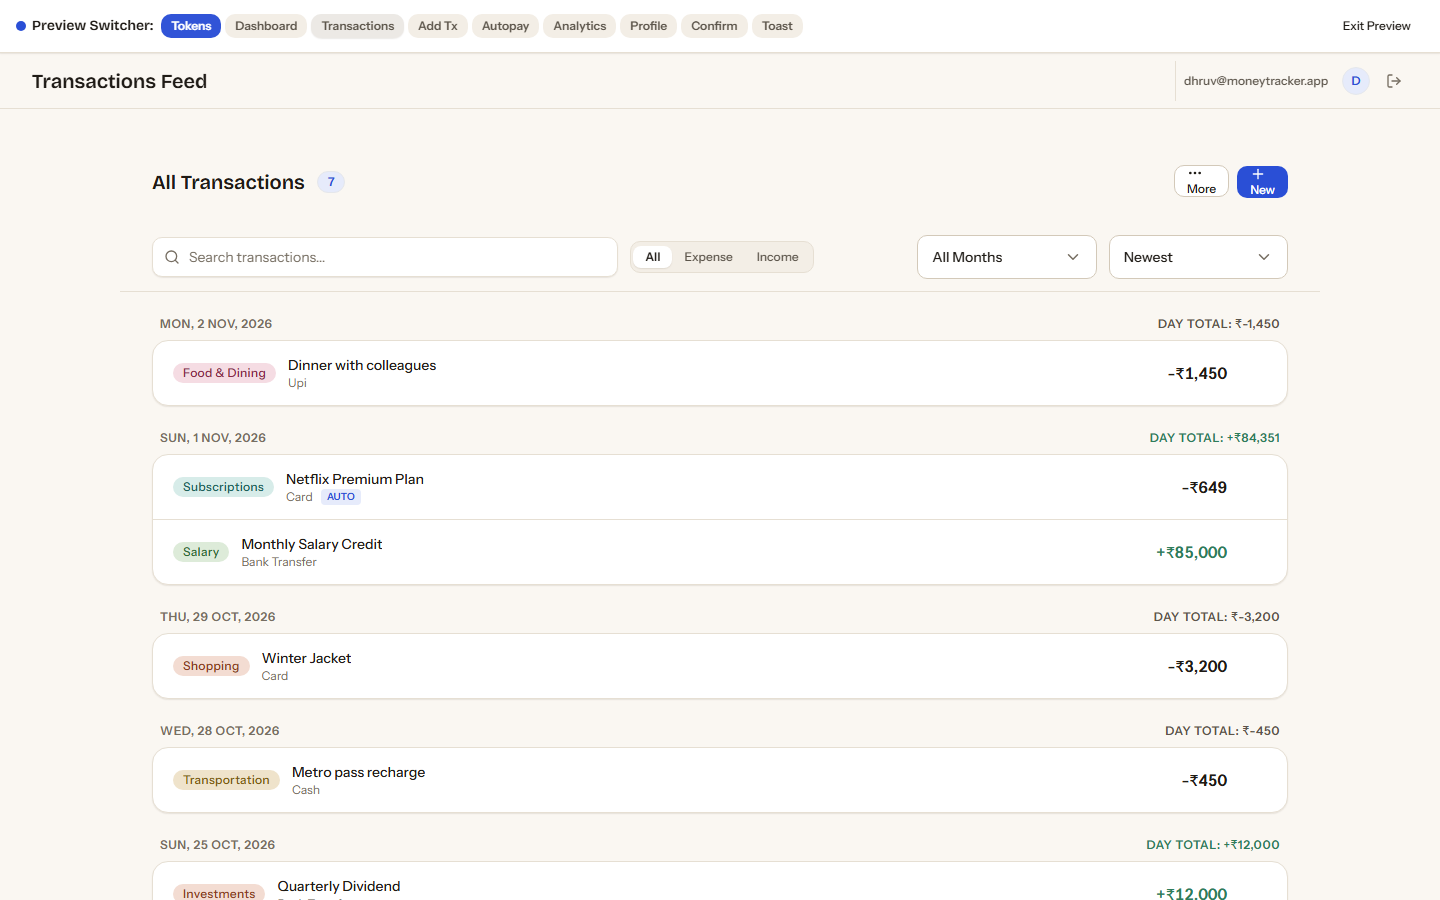
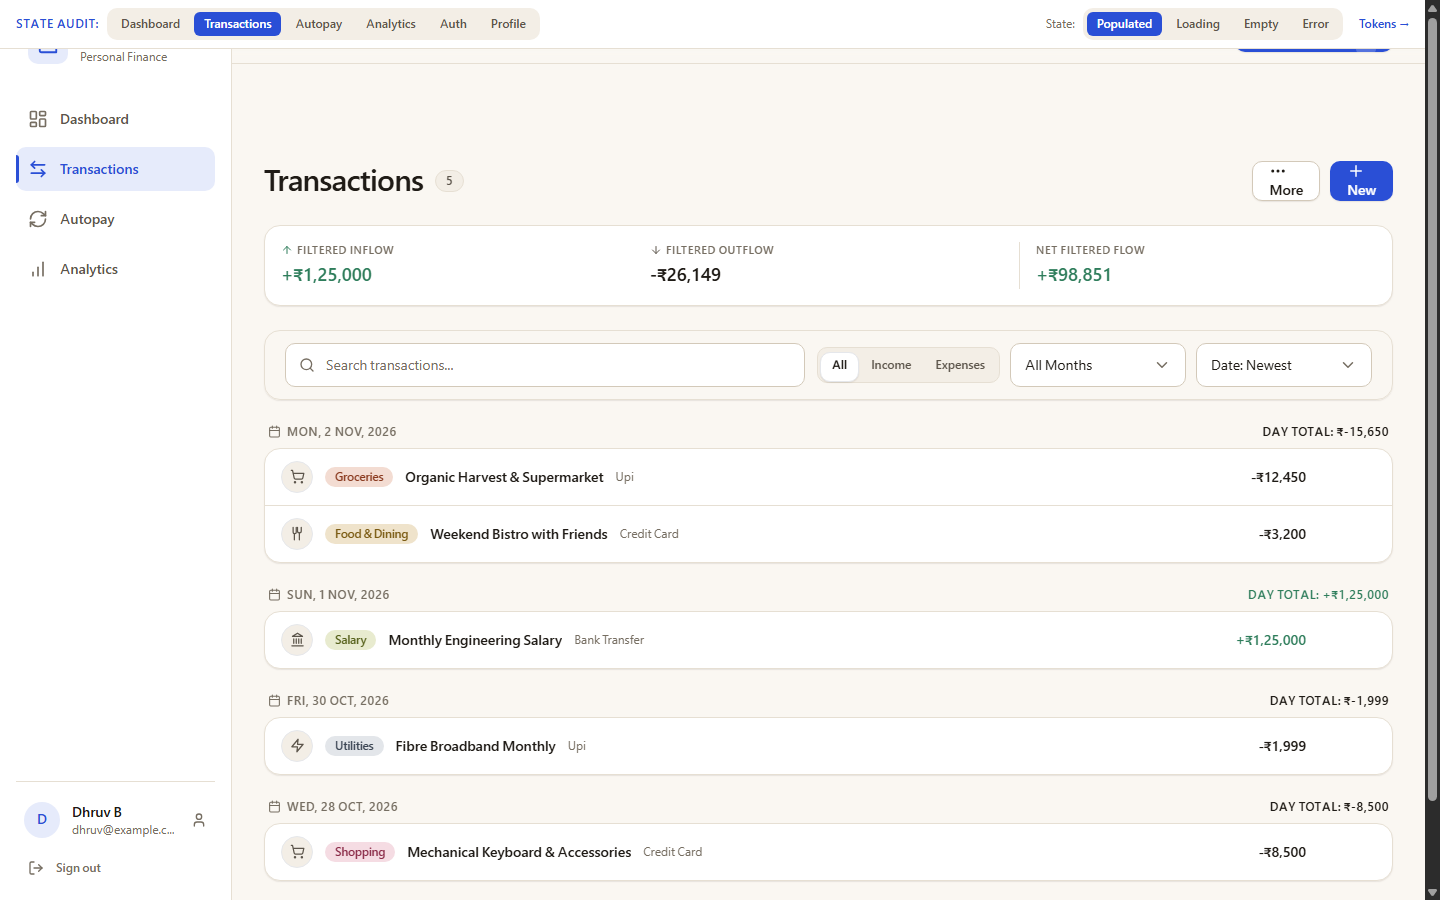
feat(transactions): elevate transactions UI with category glyphs, filtered cashflow strip, and fix mobile horizontal clipping

diff --git a/apps/web/src/components/transactions/TransactionsTab.tsx b/apps/web/src/components/transactions/TransactionsTab.tsx
@@ -9,6 +9,7 @@ import { SegmentedControl } from '../ui/SegmentedControl';
 import { TextInput } from '../ui/TextInput';
 import { EmptyState } from '../ui/EmptyState';
 import { Skeleton } from '../ui/Skeleton';
+import { Card } from '../ui/Card';
 import { TransactionSlideOver } from './TransactionSlideOver';
 import {
   filterTransactions,
@@ -32,9 +33,49 @@ import {
   XIcon,
   RefreshCwIcon,
   AlertCircleIcon,
+  CalendarIcon,
+  ArrowUpIcon,
+  ArrowDownIcon,
+  UtensilsIcon,
+  ShoppingCartIcon,
+  LandmarkIcon,
+  WalletIcon,
+  ZapIcon,
+  CarIcon,
+  FilmIcon,
+  TagIcon,
 } from '../icons';
 import { EASING } from '../../ui/motion';
 import type { Transaction, TransactionSortOption } from '../../types';
+
+/**
+ * Category Icon Resolver: renders crisp, thematic SVG icons for common categories.
+ */
+function getCategoryIcon(category: string, size = 15) {
+  const norm = (category || '').toLowerCase();
+  if (norm.includes('food') || norm.includes('dining') || norm.includes('restaurant') || norm.includes('cafe')) {
+    return <UtensilsIcon size={size} />;
+  }
+  if (norm.includes('grocer') || norm.includes('supermarket') || norm.includes('market') || norm.includes('shopping')) {
+    return <ShoppingCartIcon size={size} />;
+  }
+  if (norm.includes('salary') || norm.includes('freelance') || norm.includes('income') || norm.includes('paycheck')) {
+    return <LandmarkIcon size={size} />;
+  }
+  if (norm.includes('invest') || norm.includes('dividend') || norm.includes('mutual')) {
+    return <WalletIcon size={size} />;
+  }
+  if (norm.includes('utilit') || norm.includes('bill') || norm.includes('electric') || norm.includes('water')) {
+    return <ZapIcon size={size} />;
+  }
+  if (norm.includes('travel') || norm.includes('transport') || norm.includes('train') || norm.includes('cab') || norm.includes('flight')) {
+    return <CarIcon size={size} />;
+  }
+  if (norm.includes('subscript') || norm.includes('stream') || norm.includes('entertain') || norm.includes('movie')) {
+    return <FilmIcon size={size} />;
+  }
+  return <TagIcon size={size} />;
+}
 
 export function TransactionsTab() {
   const {
@@ -145,6 +186,22 @@ export function TransactionsTab() {
       sortBy,
     );
   }, [activeTransactions, searchQuery, typeFilter, monthFilter, sortBy]);
+
+  // Filtered cashflow summary metrics
+  const filteredMetrics = useMemo(() => {
+    let income = 0;
+    let expense = 0;
+    filtered.forEach((t) => {
+      if (t.type === 'income') income += t.amount;
+      else if (t.type === 'expense') expense += t.amount;
+    });
+    return {
+      income,
+      expense,
+      net: income - expense,
+      count: filtered.length,
+    };
+  }, [filtered]);
 
   // 10-per-page pagination
   const { paginatedItems, totalPages, totalItems } = useMemo(() => {
@@ -342,7 +399,7 @@ export function TransactionsTab() {
   const selectedMonthOption = monthOptions.find((m) => m.value === monthFilter);
 
   return (
-    <div id="transactions" className="tab-content active space-y-6 pb-12">
+    <div id="transactions" className="tab-content active space-y-6 pb-12 w-full max-w-full">
       {/* Scroll anchor for pagination */}
       <div ref={listTopRef} />
 
@@ -460,8 +517,45 @@ export function TransactionsTab() {
         </div>
       </div>
 
-      {/* Sticky Filter Bar (Under top bar) */}
-      <div className="sticky top-16 z-20 -mx-4 sm:-mx-6 px-4 sm:px-6 py-3 bg-bg/95 backdrop-blur-sm border-y border-line space-y-3">
+      {/* Filtered Financial Summary Strip (Skiper UI / Realtime Colors Pattern) */}
+      {transactions.length > 0 && (
+        <Card className="p-3.5 sm:p-4 bg-surface border border-line shadow-1 grid grid-cols-2 sm:grid-cols-3 gap-3">
+          <div className="flex flex-col">
+            <span className="text-[11px] uppercase tracking-wider text-ink-3 font-medium flex items-center gap-1">
+              <ArrowUpIcon size={12} className="text-income" /> Filtered Inflow
+            </span>
+            <span className="text-base sm:text-lg font-semibold text-income tabular-nums mt-0.5">
+              +{formatCurrency(filteredMetrics.income)}
+            </span>
+          </div>
+
+          <div className="flex flex-col">
+            <span className="text-[11px] uppercase tracking-wider text-ink-3 font-medium flex items-center gap-1">
+              <ArrowDownIcon size={12} className="text-ink-2" /> Filtered Outflow
+            </span>
+            <span className="text-base sm:text-lg font-semibold text-ink tabular-nums mt-0.5">
+              -{formatCurrency(filteredMetrics.expense)}
+            </span>
+          </div>
+
+          <div className="flex flex-col col-span-2 sm:col-span-1 pt-2 sm:pt-0 border-t sm:border-t-0 sm:border-l border-line sm:pl-4">
+            <span className="text-[11px] uppercase tracking-wider text-ink-3 font-medium">
+              Net Filtered Flow
+            </span>
+            <span
+              className={`text-base sm:text-lg font-semibold tabular-nums mt-0.5 ${
+                filteredMetrics.net >= 0 ? 'text-income' : 'text-danger'
+              }`}
+            >
+              {filteredMetrics.net >= 0 ? '+' : ''}
+              {formatCurrency(filteredMetrics.net)}
+            </span>
+          </div>
+        </Card>
+      )}
+
+      {/* Sticky Filter Bar */}
+      <div className="sticky top-16 z-20 px-3.5 sm:px-5 py-3 rounded-card bg-surface/90 backdrop-blur-md border border-line shadow-1 space-y-3">
         <div className="flex flex-col lg:flex-row items-stretch lg:items-center gap-3">
           {/* Search Input */}
           <div className="relative flex-1 min-w-[200px]">
@@ -552,7 +646,7 @@ export function TransactionsTab() {
             <span className="text-xs text-ink-3 font-medium">Filters:</span>
 
             {searchQuery.trim() !== '' && (
-              <span className="inline-flex items-center gap-1.5 px-2.5 py-1 rounded-chip text-xs bg-surface border border-line text-ink">
+              <span className="inline-flex items-center gap-1.5 px-2.5 py-1 rounded-chip text-xs bg-surface-2 border border-line text-ink">
                 <span>Search: &ldquo;{searchQuery}&rdquo;</span>
                 <button
                   type="button"
@@ -569,7 +663,7 @@ export function TransactionsTab() {
             )}
 
             {typeFilter !== 'all' && (
-              <span className="inline-flex items-center gap-1.5 px-2.5 py-1 rounded-chip text-xs bg-surface border border-line text-ink">
+              <span className="inline-flex items-center gap-1.5 px-2.5 py-1 rounded-chip text-xs bg-surface-2 border border-line text-ink">
                 <span>Type: {typeFilter === 'income' ? 'Income' : 'Expenses'}</span>
                 <button
                   type="button"
@@ -586,7 +680,7 @@ export function TransactionsTab() {
             )}
 
             {monthFilter !== 'all' && (
-              <span className="inline-flex items-center gap-1.5 px-2.5 py-1 rounded-chip text-xs bg-surface border border-line text-ink">
+              <span className="inline-flex items-center gap-1.5 px-2.5 py-1 rounded-chip text-xs bg-surface-2 border border-line text-ink">
                 <span>Month: {selectedMonthOption?.label || monthFilter}</span>
                 <button
                   type="button"
@@ -720,7 +814,10 @@ export function TransactionsTab() {
               <div key={group.date} className="space-y-2">
                 {/* Date Header with Day's Total */}
                 <div className="flex items-center justify-between px-1 text-xs font-semibold uppercase tracking-wider text-ink-3">
-                  <span>{group.formattedDate}</span>
+                  <span className="flex items-center gap-1.5">
+                    <CalendarIcon size={13} className="text-ink-3" />
+                    <span>{group.formattedDate}</span>
+                  </span>
                   <span
                     className={`tabular-nums ${
                       group.dayTotal > 0
@@ -751,15 +848,20 @@ export function TransactionsTab() {
                         layout
                         transition={{ layout: { duration: 0.24, ease: [0.2, 0, 0, 1] } }}
                         key={tx.id}
-                        className="group relative p-3.5 sm:px-5 hover:bg-surface-2/60 transition-colors duration-fast"
+                        className="group relative p-3 sm:px-4 hover:bg-surface-2/60 transition-colors duration-fast"
                       >
                         {/* ====================================================================
                             Desktop Layout (>= 641px): Single-Line Row
                             ==================================================================== */}
                         <div className="hidden sm:flex items-center justify-between gap-4">
-                          {/* Left: Badge, Description, Payment Method, Auto Tag */}
-                          <div className="flex items-center gap-3.5 min-w-0 flex-1">
-                            <Badge category={tx.category}>{tx.category}</Badge>
+                          {/* Left: Category Icon Glyph, Badge, Description, Payment Method, Auto Tag */}
+                          <div className="flex items-center gap-3 min-w-0 flex-1">
+                            <div className="w-8 h-8 rounded-full bg-surface-2 flex items-center justify-center shrink-0 text-ink-2 border border-line/60">
+                              {getCategoryIcon(tx.category)}
+                            </div>
+                            <Badge category={tx.category} className="shrink-0">
+                              {tx.category}
+                            </Badge>
                             <span className="text-sm font-medium text-ink truncate max-w-xs md:max-w-md">
                               {tx.description || tx.category}
                             </span>
@@ -809,15 +911,18 @@ export function TransactionsTab() {
                         </div>
 
                         {/* ====================================================================
-                            Mobile Layout (< 641px): Two-Line Card
-                            Line 1: Category Badge + Description (left), Tabular Amount (right)
-                            Line 2: Payment Method + Auto tag (left), Edit & Delete buttons (right)
+                            Mobile Layout (< 641px): Two-Line Card with Glyphs & Zero Clipping
                             ==================================================================== */}
                         <div className="flex sm:hidden flex-col gap-2">
-                          {/* Line 1 */}
+                          {/* Line 1: Glyph + Badge + Description (left), Tabular Amount (right) */}
                           <div className="flex items-center justify-between gap-3">
                             <div className="flex items-center gap-2 min-w-0 flex-1">
-                              <Badge category={tx.category}>{tx.category}</Badge>
+                              <div className="w-6 h-6 rounded-full bg-surface-2 flex items-center justify-center shrink-0 text-ink-2 border border-line/60">
+                                {getCategoryIcon(tx.category, 13)}
+                              </div>
+                              <Badge category={tx.category} className="shrink-0 text-xs">
+                                {tx.category}
+                              </Badge>
                               <span className="text-sm font-medium text-ink truncate">
                                 {tx.description || tx.category}
                               </span>
@@ -832,9 +937,9 @@ export function TransactionsTab() {
                             </span>
                           </div>
 
-                          {/* Line 2 */}
+                          {/* Line 2: Payment Method + Auto tag (left), Edit & Delete buttons (right) */}
                           <div className="flex items-center justify-between gap-2 text-xs text-ink-3 pt-0.5">
-                            <div className="flex items-center gap-2">
+                            <div className="flex items-center gap-2 min-w-0">
                               <span className="capitalize">{methodDisplay}</span>
                               {isAuto && tx.source === 'autopay' && (
                                 <span className="px-1.5 py-0.5 rounded-chip text-[10px] font-semibold bg-accent-tint text-accent uppercase tracking-wide">
@@ -844,7 +949,7 @@ export function TransactionsTab() {
                             </div>
 
                             {/* Mobile action buttons (always visible on touch) */}
-                            <div className="flex items-center gap-1.5">
+                            <div className="row-action-btn flex items-center gap-1.5 shrink-0">
                               <button
                                 type="button"
                                 onClick={(e) => handleOpenEdit(tx, e)}
